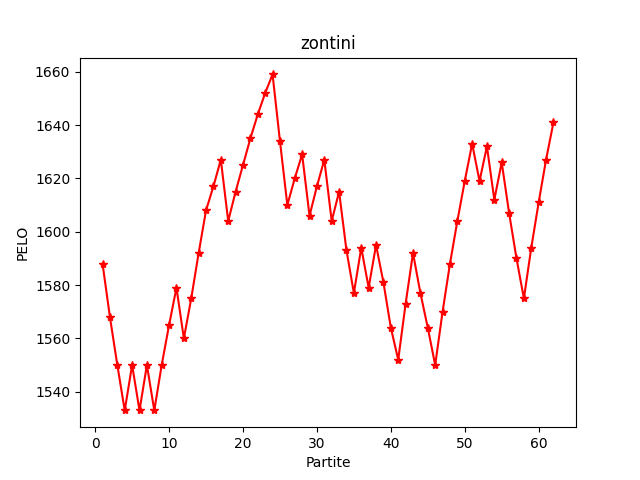
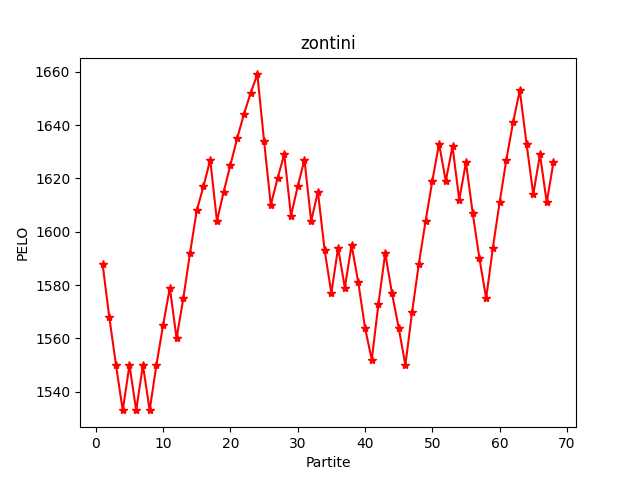
Add files via upload

diff --git a/index.htm b/index.htm
@@ -27,23 +27,14 @@
     <tr>
       <th>1</th>
       <td><a href='zontini.png'>zontini</a></td>
-      <td>1641</td>
-      <td>154</td>
-      <td>83</td>
-      <td>1554</td>
-      <td>1476</td>
+      <td>1626</td>
+      <td>160</td>
+      <td>86</td>
+      <td>1604</td>
+      <td>1534</td>
     </tr>
     <tr>
       <th>2</th>
-      <td><a href='caprile.png'>caprile</a></td>
-      <td>1624</td>
-      <td>118</td>
-      <td>75</td>
-      <td>1210</td>
-      <td>1020</td>
-    </tr>
-    <tr>
-      <th>3</th>
       <td><a href='turino.png'>turino</a></td>
       <td>1597</td>
       <td>6</td>
@@ -52,7 +43,7 @@
       <td>42</td>
     </tr>
     <tr>
-      <th>4</th>
+      <th>3</th>
       <td><a href='devigili.png'>devigili</a></td>
       <td>1595</td>
       <td>8</td>
@@ -61,13 +52,22 @@
       <td>57</td>
     </tr>
     <tr>
+      <th>4</th>
+      <td><a href='caprile.png'>caprile</a></td>
+      <td>1588</td>
+      <td>123</td>
+      <td>77</td>
+      <td>1267</td>
+      <td>1076</td>
+    </tr>
+    <tr>
       <th>5</th>
       <td><a href='castellani.png'>castellani</a></td>
-      <td>1511</td>
-      <td>292</td>
-      <td>123</td>
-      <td>2678</td>
-      <td>2932</td>
+      <td>1573</td>
+      <td>303</td>
+      <td>129</td>
+      <td>2792</td>
+      <td>3039</td>
     </tr>
     <tr>
       <th>6</th>
